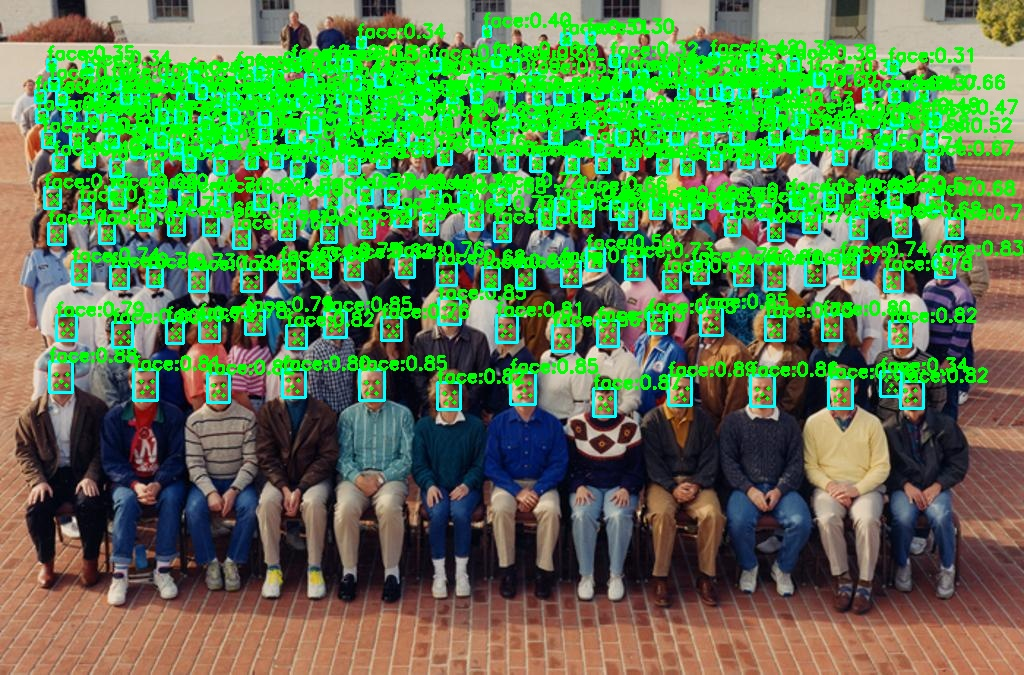
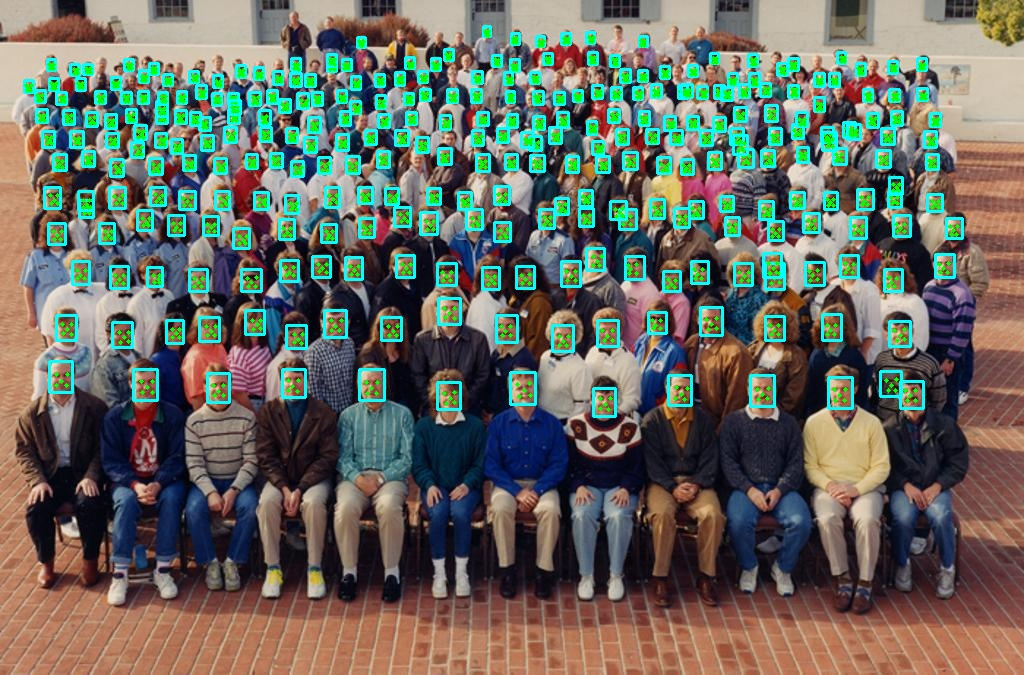
refactor(toolkit): optimized utils and add docker hub link (#152)

Changed region(s): [[0.0, 0.0, 1.0, 0.5911]]

diff --git a/lite/utils.cpp b/lite/utils.cpp
@@ -163,7 +163,7 @@ cv::Mat lite::utils::draw_boxes(const cv::Mat &mat, const std::vector<types::Box
   return canva;
 }
 
-void lite::utils::draw_boxes_with_landmarks_inplace(cv::Mat &mat_inplace, const std::vector<types::BoxfWithLandmarks> &boxes_kps)
+void lite::utils::draw_boxes_with_landmarks_inplace(cv::Mat &mat_inplace, const std::vector<types::BoxfWithLandmarks> &boxes_kps, bool text)
 {
   if (boxes_kps.empty()) return;
   for (const auto &box_kps: boxes_kps)
@@ -174,7 +174,7 @@ void lite::utils::draw_boxes_with_landmarks_inplace(cv::Mat &mat_inplace, const 
       if (box_kps.box.flag)
       {
         cv::rectangle(mat_inplace, box_kps.box.rect(), cv::Scalar(255, 255, 0), 2);
-        if (box_kps.box.label_text)
+        if (box_kps.box.label_text && text)
         {
           std::string label_text(box_kps.box.label_text);
           label_text = label_text + ":" + std::to_string(box_kps.box.score).substr(0, 4);
@@ -193,7 +193,7 @@ void lite::utils::draw_boxes_with_landmarks_inplace(cv::Mat &mat_inplace, const 
   }
 }
 
-cv::Mat lite::utils::draw_boxes_with_landmarks(const cv::Mat &mat, const std::vector<types::BoxfWithLandmarks> &boxes_kps)
+cv::Mat lite::utils::draw_boxes_with_landmarks(const cv::Mat &mat, const std::vector<types::BoxfWithLandmarks> &boxes_kps, bool text)
 {
   if (boxes_kps.empty()) return mat;
   cv::Mat canva = mat.clone();
@@ -205,7 +205,7 @@ cv::Mat lite::utils::draw_boxes_with_landmarks(const cv::Mat &mat, const std::ve
       if (box_kps.box.flag)
       {
         cv::rectangle(canva, box_kps.box.rect(), cv::Scalar(255, 255, 0), 2);
-        if (box_kps.box.label_text)
+        if (box_kps.box.label_text && text)
         {
           std::string label_text(box_kps.box.label_text);
           label_text = label_text + ":" + std::to_string(box_kps.box.score).substr(0, 4);

diff --git a/lite/utils.h b/lite/utils.h
@@ -29,7 +29,7 @@ namespace lite
 
     LITE_EXPORTS cv::Mat draw_emotion(const cv::Mat &mat, types::Emotions &emotions);
 
-    LITE_EXPORTS cv::Mat draw_boxes_with_landmarks(const cv::Mat &mat, const std::vector<types::BoxfWithLandmarks> &boxes_kps);
+    LITE_EXPORTS cv::Mat draw_boxes_with_landmarks(const cv::Mat &mat, const std::vector<types::BoxfWithLandmarks> &boxes_kps, bool text = false);
 
     LITE_EXPORTS void draw_boxes_inplace(cv::Mat &mat_inplace, const std::vector<types::Boxf> &boxes);
 
@@ -43,7 +43,7 @@ namespace lite
 
     LITE_EXPORTS void draw_emotion_inplace(cv::Mat &mat_inplace, types::Emotions &emotions);
 
-    LITE_EXPORTS void draw_boxes_with_landmarks_inplace(cv::Mat &mat_inplace, const std::vector<types::BoxfWithLandmarks> &boxes_kps);
+    LITE_EXPORTS void draw_boxes_with_landmarks_inplace(cv::Mat &mat_inplace, const std::vector<types::BoxfWithLandmarks> &boxes_kps, bool text = false);
 
     LITE_EXPORTS void hard_nms(std::vector<types::Boxf> &input, std::vector<types::Boxf> &output, float iou_threshold, unsigned int topk);
 

diff --git a/README.md b/README.md
@@ -57,11 +57,13 @@
 
 🍅🍅*Lite.AI.ToolKit*: A lite C++ toolkit of awesome AI models, such as [Object Detection](#lite.ai.toolkit-object-detection), [Face Detection](#lite.ai.toolkit-face-detection), [Face Recognition](#lite.ai.toolkit-face-recognition), [Segmentation](#lite.ai.toolkit-segmentation), [Matting](#lite.ai.toolkit-matting), etc. See [Model Zoo](#lite.ai.toolkit-Model-Zoo) and [ONNX Hub](https://github.com/DefTruth/lite.ai.toolkit/tree/main/docs/hub/lite.ai.toolkit.hub.onnx.md), [MNN Hub](https://github.com/DefTruth/lite.ai.toolkit/tree/main/docs/hub/lite.ai.toolkit.hub.mnn.md), [TNN Hub](https://github.com/DefTruth/lite.ai.toolkit/tree/main/docs/hub/lite.ai.toolkit.hub.tnn.md), [NCNN Hub](https://github.com/DefTruth/lite.ai.toolkit/tree/main/docs/hub/lite.ai.toolkit.hub.ncnn.md). [❤ Star 🌟👆🏻 this repo if it does any helps to you, thanks ~ ]
 
-## Core Features👏👋
+## Core Features and RoadMap👏👋
+
+![](docs/resources/lite.ai.toolkit-roadmap-v0.1.png)
 
 * *Simply and User friendly.* Simply and Consistent syntax like *lite::cv::Type::Class*, see [examples](#lite.ai.toolkit-Examples-for-Lite.AI.ToolKit).
 * *Minimum Dependencies.* Only *OpenCV* and *ONNXRuntime* are required by default, see [build](#lite.ai.toolkit-Build-Lite.AI.ToolKit).
-* *Lots of Algorithm Modules.* Contains 10+ modules with *[70+](https://github.com/DefTruth/lite.ai.toolkit/tree/main/docs/hub/lite.ai.toolkit.hub.onnx.md)* famous models and *[500+](https://github.com/DefTruth/lite.ai.toolkit/tree/main/docs/hub/lite.ai.toolkit.hub.onnx.md)* pretrained files
+* *Lots of Algorithm Modules.* Contains 10+ modules with *[70+](https://github.com/DefTruth/lite.ai.toolkit/tree/main/docs/hub/lite.ai.toolkit.hub.onnx.md)* AI models and *[500+](https://github.com/DefTruth/lite.ai.toolkit/tree/main/docs/hub/lite.ai.toolkit.hub.onnx.md)* weights now.
 
 
 ## Important Updates!!
@@ -77,6 +79,8 @@
 |【2021/09/20】|[RobustVideoMatting](https://github.com/PeterL1n/RobustVideoMatting)|[[link](https://github.com/DefTruth/lite.ai.toolkit/blob/main/examples/lite/cv/test_lite_rvm.cpp)]|[[WACV 2022](https://arxiv.org/abs/2108.11515)]|[[code](https://github.com/PeterL1n/RobustVideoMatting)]|![](https://img.shields.io/github/stars/PeterL1n/RobustVideoMatting.svg?style=social)| matting |
 |【2021/09/02】|[YOLOP](https://github.com/hustvl/YOLOP)|[[link](https://github.com/DefTruth/lite.ai.toolkit/blob/main/examples/lite/cv/test_lite_yolop.cpp)]|[[arXiv 2021](https://arxiv.org/abs/2108.11250)]|[[code](https://github.com/hustvl/YOLOP)]|![](https://img.shields.io/github/stars/hustvl/YOLOP.svg?style=social)| detection |
 
+<!-----
+
 <div align='left'>
   <img src='docs/resources/scrfd_2.jpg' height="450px" width="800px">
 <br>
@@ -90,6 +94,15 @@
   <img src='logs/test_lite_mg_matting_fgr.jpg' height="170px" width="200px">
   <img src='logs/test_lite_mg_matting_merge.jpg' height="170px" width="200px">
 </div>  
+
+<div align='left'>
+  <img src='docs/resources/scrfd-mgmatting-nanodetplus.jpg' height="500px" width="820px">
+</div>  
+
+----->
+
+![](docs/resources/scrfd-mgmatting-nanodetplus.jpg)
+
 
 ## Supported Models Matrix
 
@@ -337,16 +350,15 @@ To link `lite.ai.toolkit` shared lib. You need to make sure that `OpenCV` and `o
 
 *Lite.AI.ToolKit* contains *[70+](https://github.com/DefTruth/lite.ai.toolkit/tree/main/docs/hub/lite.ai.toolkit.hub.onnx.md)* AI models with *[500+](https://github.com/DefTruth/lite.ai.toolkit/tree/main/docs/hub/lite.ai.toolkit.hub.onnx.md)* frozen pretrained  files now. Most of the files are converted by myself. You can use it through *lite::cv::Type::Class* syntax, such as *[lite::cv::detection::YoloV5](#lite.ai.toolkit-object-detection)*. More details can be found at [Examples for Lite.AI.ToolKit](#lite.ai.toolkit-Examples-for-Lite.AI.ToolKit). Note, for Google Drive, I can not upload all the *.onnx files because of the storage limitation (15G).
 
-|File|Baidu Drive|Google Drive|Hub|  
-|:---:|:---:|:---:|:---:|
-|ONNX|[Baidu Drive](https://pan.baidu.com/s/1elUGcx7CZkkjEoYhTMwTRQ) code: 8gin|[Google Drive](https://drive.google.com/drive/folders/1p6uBcxGeyS1exc-T61vL8YRhwjYL4iD2?usp=sharing)|[ONNX Hub](https://github.com/DefTruth/lite.ai.toolkit/tree/main/docs/hub/lite.ai.toolkit.hub.onnx.md)|    
-|MNN|[Baidu Drive](https://pan.baidu.com/s/1KyO-bCYUv6qPq2M8BH_Okg) code: 9v63 |❔|[MNN Hub](https://github.com/DefTruth/lite.ai.toolkit/tree/main/docs/hub/lite.ai.toolkit.hub.mnn.md)|  
-|NCNN|[Baidu Drive](https://pan.baidu.com/s/1hlnqyNsFbMseGFWscgVhgQ) code: sc7f |❔|[NCNN Hub](https://github.com/DefTruth/lite.ai.toolkit/tree/main/docs/hub/lite.ai.toolkit.hub.ncnn.md)|
-|TNN|[Baidu Drive](https://pan.baidu.com/s/1lvM2YKyUbEc5HKVtqITpcw) code: 6o6k|❔|[TNN Hub](https://github.com/DefTruth/lite.ai.toolkit/tree/main/docs/hub/lite.ai.toolkit.hub.tnn.md)|
-
+|File|Baidu Drive|Google Drive|Docker Hub|Hub (Docs)|  
+|:---:|:---:|:---:|:---:|:---:|
+|ONNX|[Baidu Drive](https://pan.baidu.com/s/1elUGcx7CZkkjEoYhTMwTRQ) code: 8gin|[Google Drive](https://drive.google.com/drive/folders/1p6uBcxGeyS1exc-T61vL8YRhwjYL4iD2?usp=sharing)|[ONNX Docker v0.1.22.01.08 ❔](https://hub.docker.com/repository/docker/qyjdefdocker/lite.ai.toolkit-onnx-hub)|[ONNX Hub](https://github.com/DefTruth/lite.ai.toolkit/tree/main/docs/hub/lite.ai.toolkit.hub.onnx.md)|    
+|MNN|[Baidu Drive](https://pan.baidu.com/s/1KyO-bCYUv6qPq2M8BH_Okg) code: 9v63 |❔|[MNN Docker v0.1.22.01.08 (11G)](https://hub.docker.com/repository/docker/qyjdefdocker/lite.ai.toolkit-mnn-hub)|[MNN Hub](https://github.com/DefTruth/lite.ai.toolkit/tree/main/docs/hub/lite.ai.toolkit.hub.mnn.md)|  
+|NCNN|[Baidu Drive](https://pan.baidu.com/s/1hlnqyNsFbMseGFWscgVhgQ) code: sc7f |❔|[NCNN Docker v0.1.22.01.08 (9G)](https://hub.docker.com/repository/docker/qyjdefdocker/lite.ai.toolkit-ncnn-hub)|[NCNN Hub](https://github.com/DefTruth/lite.ai.toolkit/tree/main/docs/hub/lite.ai.toolkit.hub.ncnn.md)|
+|TNN|[Baidu Drive](https://pan.baidu.com/s/1lvM2YKyUbEc5HKVtqITpcw) code: 6o6k|❔|[TNN Docker v0.1.22.01.08 (11G)](https://hub.docker.com/repository/docker/qyjdefdocker/lite.ai.toolkit-tnn-hub)|[TNN Hub](https://github.com/DefTruth/lite.ai.toolkit/tree/main/docs/hub/lite.ai.toolkit.hub.tnn.md)|
 
 <details>
-<summary> Lite.AI.ToolKit modules.</summary>  
+<summary>  ❇ Lite.AI.ToolKit modules.</summary>  
 
 ### Namespace and Lite.AI.ToolKit modules.
 
@@ -401,6 +413,43 @@ auto *yolox = new lite::cv::detection::YoloX("yolox_nano.onnx");  // 3.5Mb only 
 ```
 
 </details>
+
+<details>
+<summary> 🔑 How to download Model Zoo from Docker Hub?</summary>    
+
+* Firstly, pull the image from docker hub.  
+  ```shell
+  docker push qyjdefdocker/lite.ai.toolkit-mnn-hub:v0.1.22.01.08 # (8.9G)
+  ```
+* Secondly, run the container with local `share` dir using `docker run -idt xxx`. A minimum example will show you as follows.  
+  * make a `share` dir in your local device.
+  ```shell
+  mkdir share # any name is ok.
+  ```
+  * write `run_mnn_docker_hub.sh` script like:
+  ```shell
+  #!/bin/bash  
+  PORT1=6072
+  PORT2=6084
+  SERVICE_DIR=/Users/xxx/Desktop/your-path-to/share
+  CONRAINER_DIR=/home/hub/share
+  CONRAINER_NAME=mnn_docker_hub_d
+  
+  docker run -idt -p ${PORT2}:${PORT1} -v ${SERVICE_DIR}:${CONRAINER_DIR} --shm-size=16gb --name ${CONRAINER_NAME} qyjdefdocker/lite.ai.toolkit-mnn-hub:v0.1.22.01.08
+
+  ```
+* Finally, copy the model weights from `/home/hub/mnn/cv` to your local `share` dir. 
+  ```shell
+  # activate mnn docker.
+  sh ./run_mnn_docker_hub.sh
+  docker exec -it mnn_docker_hub_d /bin/bash
+  # copy the models to the share dir.
+  cd /home/hub 
+  cp -rf mnn/cv share/
+  ```
+
+</details>
+
 
 ## 3. Examples.
 

diff --git a/README.zh.md b/README.zh.md
@@ -57,7 +57,9 @@
 
 🍅🍅*Lite.AI.ToolKit*: 一个轻量级的`C++` AI模型工具箱，用户友好（还行吧），开箱即用。已经包括 *[70+](https://github.com/DefTruth/lite.ai.toolkit/tree/main/docs/hub/lite.ai.toolkit.hub.onnx.md)* 流行的开源模型。这是一个根据个人兴趣整理的C++工具箱，, 涵盖[目标检测](#lite.ai.toolkit-object-detection)、[人脸检测](#lite.ai.toolkit-face-detection)、[人脸识别](#lite.ai.toolkit-face-recognition)、[语义分割](#lite.ai.toolkit-segmentation)、[抠图](#lite.ai.toolkit-matting)等领域。详见 [Model Zoo](#lite.ai.toolkit-Model-Zoo) 和 [ONNX Hub](https://github.com/DefTruth/lite.ai.toolkit/tree/main/docs/hub/lite.ai.toolkit.hub.onnx.md) 、[MNN Hub](https://github.com/DefTruth/lite.ai.toolkit/tree/main/docs/hub/lite.ai.toolkit.hub.mnn.md) 、[TNN Hub](https://github.com/DefTruth/lite.ai.toolkit/tree/main/docs/hub/lite.ai.toolkit.hub.tnn.md) 、[NCNN Hub](https://github.com/DefTruth/lite.ai.toolkit/tree/main/docs/hub/lite.ai.toolkit.hub.ncnn.md). [若是有用，❤不妨给个⭐🌟支持一下吧，感谢支持~]
 
-## 核心特征👏👋
+## 核心特征及规划👏👋
+
+![](docs/resources/lite.ai.toolkit-roadmap-v0.1.png) 
 
 * *用户友好，开箱即用。* 使用简单一致的调用语法，如*lite::cv::Type::Class*，详见[examples](#lite.ai.toolkit-Examples-for-Lite.AI.ToolKit).
 * *少量依赖，构建容易。* 目前, 默认只依赖 *OpenCV* 和 *ONNXRuntime*，详见[build](#lite.ai.toolkit-Build-Lite.AI.ToolKit)。
@@ -77,6 +79,8 @@
 |【2021/09/20】|[RobustVideoMatting](https://github.com/PeterL1n/RobustVideoMatting)|[[link](https://github.com/DefTruth/lite.ai.toolkit/blob/main/examples/lite/cv/test_lite_rvm.cpp)]|[[WACV 2022](https://arxiv.org/abs/2108.11515)]|[[code](https://github.com/PeterL1n/RobustVideoMatting)]|![](https://img.shields.io/github/stars/PeterL1n/RobustVideoMatting.svg?style=social)| matting |
 |【2021/09/02】|[YOLOP](https://github.com/hustvl/YOLOP)|[[link](https://github.com/DefTruth/lite.ai.toolkit/blob/main/examples/lite/cv/test_lite_yolop.cpp)]|[[arXiv 2021](https://arxiv.org/abs/2108.11250)]|[[code](https://github.com/hustvl/YOLOP)]|![](https://img.shields.io/github/stars/hustvl/YOLOP.svg?style=social)| detection |
 
+<!-----
+
 <div align='left'>
   <img src='docs/resources/scrfd_2.jpg' height="450px" width="800px">
 <br>
@@ -90,6 +94,15 @@
   <img src='logs/test_lite_mg_matting_fgr.jpg' height="170px" width="200px">
   <img src='logs/test_lite_mg_matting_merge.jpg' height="170px" width="200px">
 </div>  
+
+<div align='left'>
+  <img src='docs/resources/scrfd-mgmatting-nanodetplus.jpg' height="500px" width="820px">
+</div>  
+
+----->
+
+![](docs/resources/scrfd-mgmatting-nanodetplus.jpg)
+
 
 ## 模型支持矩阵
 
@@ -335,15 +348,15 @@ Default Version Detected Boxes Num: 5
 
 *Lite.AI.ToolKit* 目前包括 *[70+](https://github.com/DefTruth/lite.ai.toolkit/tree/main/docs/hub/lite.ai.toolkit.hub.onnx.md)* 流行的开源模型以及 *[500+](https://github.com/DefTruth/lite.ai.toolkit/tree/main/docs/hub/lite.ai.toolkit.hub.onnx.md)* 文件，大部分文件是我自己转换的。你可以通过*lite::cv::Type::Class* 语法进行调用，如 *[lite::cv::detection::YoloV5](#lite.ai.toolkit-object-detection)*。更多的细节见[Examples for Lite.AI.ToolKit](#lite.ai.toolkit-Examples-for-Lite.AI.ToolKit)。注意，由于Google Driver(15G)的存储限制，我无法上传所有的模型文件，国内的小伙伴请使用百度云盘。
 
-|File|Baidu Drive|Google Drive|Hub|  
-|:---:|:---:|:---:|:---:|
-|ONNX|[Baidu Drive](https://pan.baidu.com/s/1elUGcx7CZkkjEoYhTMwTRQ) code: 8gin|[Google Drive](https://drive.google.com/drive/folders/1p6uBcxGeyS1exc-T61vL8YRhwjYL4iD2?usp=sharing)|[ONNX Hub](https://github.com/DefTruth/lite.ai.toolkit/tree/main/docs/hub/lite.ai.toolkit.hub.onnx.md)|    
-|MNN|[Baidu Drive](https://pan.baidu.com/s/1KyO-bCYUv6qPq2M8BH_Okg) code: 9v63 |❔|[MNN Hub](https://github.com/DefTruth/lite.ai.toolkit/tree/main/docs/hub/lite.ai.toolkit.hub.mnn.md)|  
-|NCNN|[Baidu Drive](https://pan.baidu.com/s/1hlnqyNsFbMseGFWscgVhgQ) code: sc7f |❔|[NCNN Hub](https://github.com/DefTruth/lite.ai.toolkit/tree/main/docs/hub/lite.ai.toolkit.hub.ncnn.md)|
-|TNN|[Baidu Drive](https://pan.baidu.com/s/1lvM2YKyUbEc5HKVtqITpcw) code: 6o6k|❔|[TNN Hub](https://github.com/DefTruth/lite.ai.toolkit/tree/main/docs/hub/lite.ai.toolkit.hub.tnn.md)|
+|File|Baidu Drive|Google Drive|Docker Hub|Hub (Docs)|  
+|:---:|:---:|:---:|:---:|:---:|
+|ONNX|[Baidu Drive](https://pan.baidu.com/s/1elUGcx7CZkkjEoYhTMwTRQ) code: 8gin|[Google Drive](https://drive.google.com/drive/folders/1p6uBcxGeyS1exc-T61vL8YRhwjYL4iD2?usp=sharing)|[ONNX Docker v0.1.22.01.08 ❔](https://hub.docker.com/repository/docker/qyjdefdocker/lite.ai.toolkit-onnx-hub)|[ONNX Hub](https://github.com/DefTruth/lite.ai.toolkit/tree/main/docs/hub/lite.ai.toolkit.hub.onnx.md)|    
+|MNN|[Baidu Drive](https://pan.baidu.com/s/1KyO-bCYUv6qPq2M8BH_Okg) code: 9v63 |❔|[MNN Docker v0.1.22.01.08 (11G)](https://hub.docker.com/repository/docker/qyjdefdocker/lite.ai.toolkit-mnn-hub)|[MNN Hub](https://github.com/DefTruth/lite.ai.toolkit/tree/main/docs/hub/lite.ai.toolkit.hub.mnn.md)|  
+|NCNN|[Baidu Drive](https://pan.baidu.com/s/1hlnqyNsFbMseGFWscgVhgQ) code: sc7f |❔|[NCNN Docker v0.1.22.01.08 (9G)](https://hub.docker.com/repository/docker/qyjdefdocker/lite.ai.toolkit-ncnn-hub)|[NCNN Hub](https://github.com/DefTruth/lite.ai.toolkit/tree/main/docs/hub/lite.ai.toolkit.hub.ncnn.md)|
+|TNN|[Baidu Drive](https://pan.baidu.com/s/1lvM2YKyUbEc5HKVtqITpcw) code: 6o6k|❔|[TNN Docker v0.1.22.01.08 (11G)](https://hub.docker.com/repository/docker/qyjdefdocker/lite.ai.toolkit-tnn-hub)|[TNN Hub](https://github.com/DefTruth/lite.ai.toolkit/tree/main/docs/hub/lite.ai.toolkit.hub.tnn.md)|
 
 <details>
-<summary> 命名空间和Lite.AI.ToolKit算法模块的对应关系 </summary>  
+<summary> ❇ 命名空间和Lite.AI.ToolKit算法模块的对应关系 </summary>  
 
 ### 命名空间和Lite.AI.ToolKit算法模块的对应关系
 
@@ -397,7 +410,44 @@ auto *yolox = new lite::cv::detection::YoloX("yolox_tiny.onnx");
 auto *yolox = new lite::cv::detection::YoloX("yolox_nano.onnx");  // 3.5Mb only !
 ```
 
+</details>  
+
+<details>
+<summary> 🔑 如何从通过Docker Hub下载Model Zoo？</summary>    
+
+* Firstly, pull the image from docker hub.
+  ```shell
+  docker push qyjdefdocker/lite.ai.toolkit-mnn-hub:v0.1.22.01.08 # (8.9G)
+  ```
+* Secondly, run the container with local `share` dir using `docker run -idt xxx`. A minimum example will show you as follows.
+  * make a `share` dir in your local device.
+  ```shell
+  mkdir share # any name is ok.
+  ```
+  * write `run_mnn_docker_hub.sh` script like:
+  ```shell
+  #!/bin/bash  
+  PORT1=6072
+  PORT2=6084
+  SERVICE_DIR=/Users/xxx/Desktop/your-path-to/share
+  CONRAINER_DIR=/home/hub/share
+  CONRAINER_NAME=mnn_docker_hub_d
+  
+  docker run -idt -p ${PORT2}:${PORT1} -v ${SERVICE_DIR}:${CONRAINER_DIR} --shm-size=16gb --name ${CONRAINER_NAME} qyjdefdocker/lite.ai.toolkit-mnn-hub:v0.1.22.01.08
+
+  ```
+* Finally, copy the model weights from `/home/hub/mnn/cv` to your local `share` dir.
+  ```shell
+  # activate mnn docker.
+  sh ./run_mnn_docker_hub.sh
+  docker exec -it mnn_docker_hub_d /bin/bash
+  # copy the models to the share dir.
+  cd /home/hub 
+  cp -rf mnn/cv share/
+  ```
+
 </details>
+
 
 ## 3. 应用案例
 
